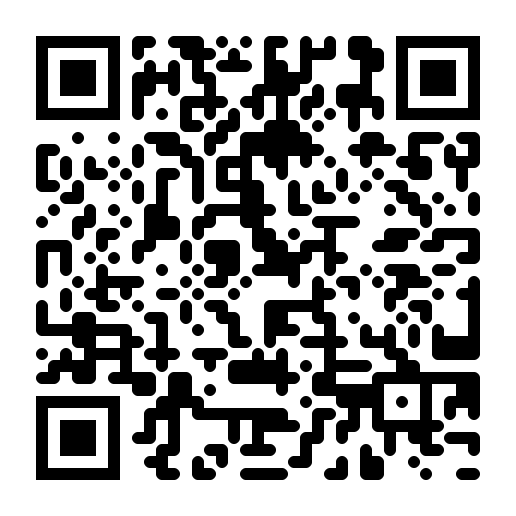
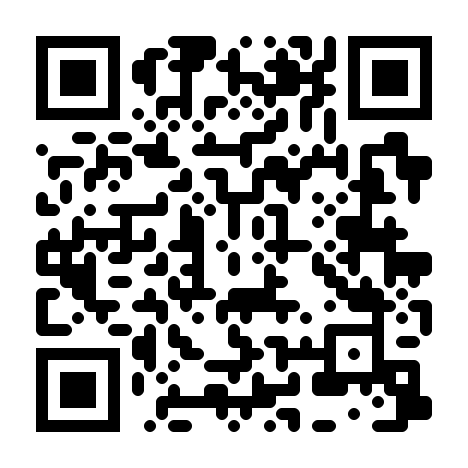
Fix background visibility on mobile

diff --git a/style.css b/style.css
@@ -37,20 +37,29 @@
    RESET
 ═══════════════════════════════════════════════ */
 *,*::before,*::after{box-sizing:border-box;margin:0;padding:0}
-html{scroll-behavior:smooth}
+html{
+  scroll-behavior:smooth;
+  min-height:100%;
+}
+html::before{
+  content:'';
+  position:fixed;inset:0;
+  background:url('bg.jpg') center/cover no-repeat;
+  z-index:-2;
+}
 body{
   font-family:'Inter',system-ui,sans-serif;
-  background:var(--bg) url('bg.jpg') center/cover fixed;
+  background:transparent;
   color:var(--text);
   -webkit-font-smoothing:antialiased;
   overflow-x:hidden;
-  transition:background var(--t),color var(--t);
+  transition:color var(--t);
 }
 body::before{
   content:'';
   position:fixed;inset:0;
   background:rgba(245,244,240,.40);
-  z-index:0;pointer-events:none;
+  z-index:-1;pointer-events:none;
 }
 [data-theme="dark"] body::before{
   background:rgba(17,16,9,.55);

diff --git a/generate_qr.py b/generate_qr.py
@@ -7,7 +7,7 @@ import qrcode
 from qrcode.image.styledpil import StyledPilImage
 from qrcode.image.styles.moduledrawers import RoundedModuleDrawer
 
-MENU_URL = "https://your-firebase-project.web.app"   # ← change this
+MENU_URL = "https://kbrmenu.vercel.app"
 
 qr = qrcode.QRCode(
     version=1,
@@ -23,4 +23,4 @@ img = qr.make_image(
     module_drawer=RoundedModuleDrawer(),
 )
 img.save("qr_menu.png")
-print(f"✅  QR code saved → qr_menu.png  ({MENU_URL})")
+print(f"QR code saved -> qr_menu.png  ({MENU_URL})")
